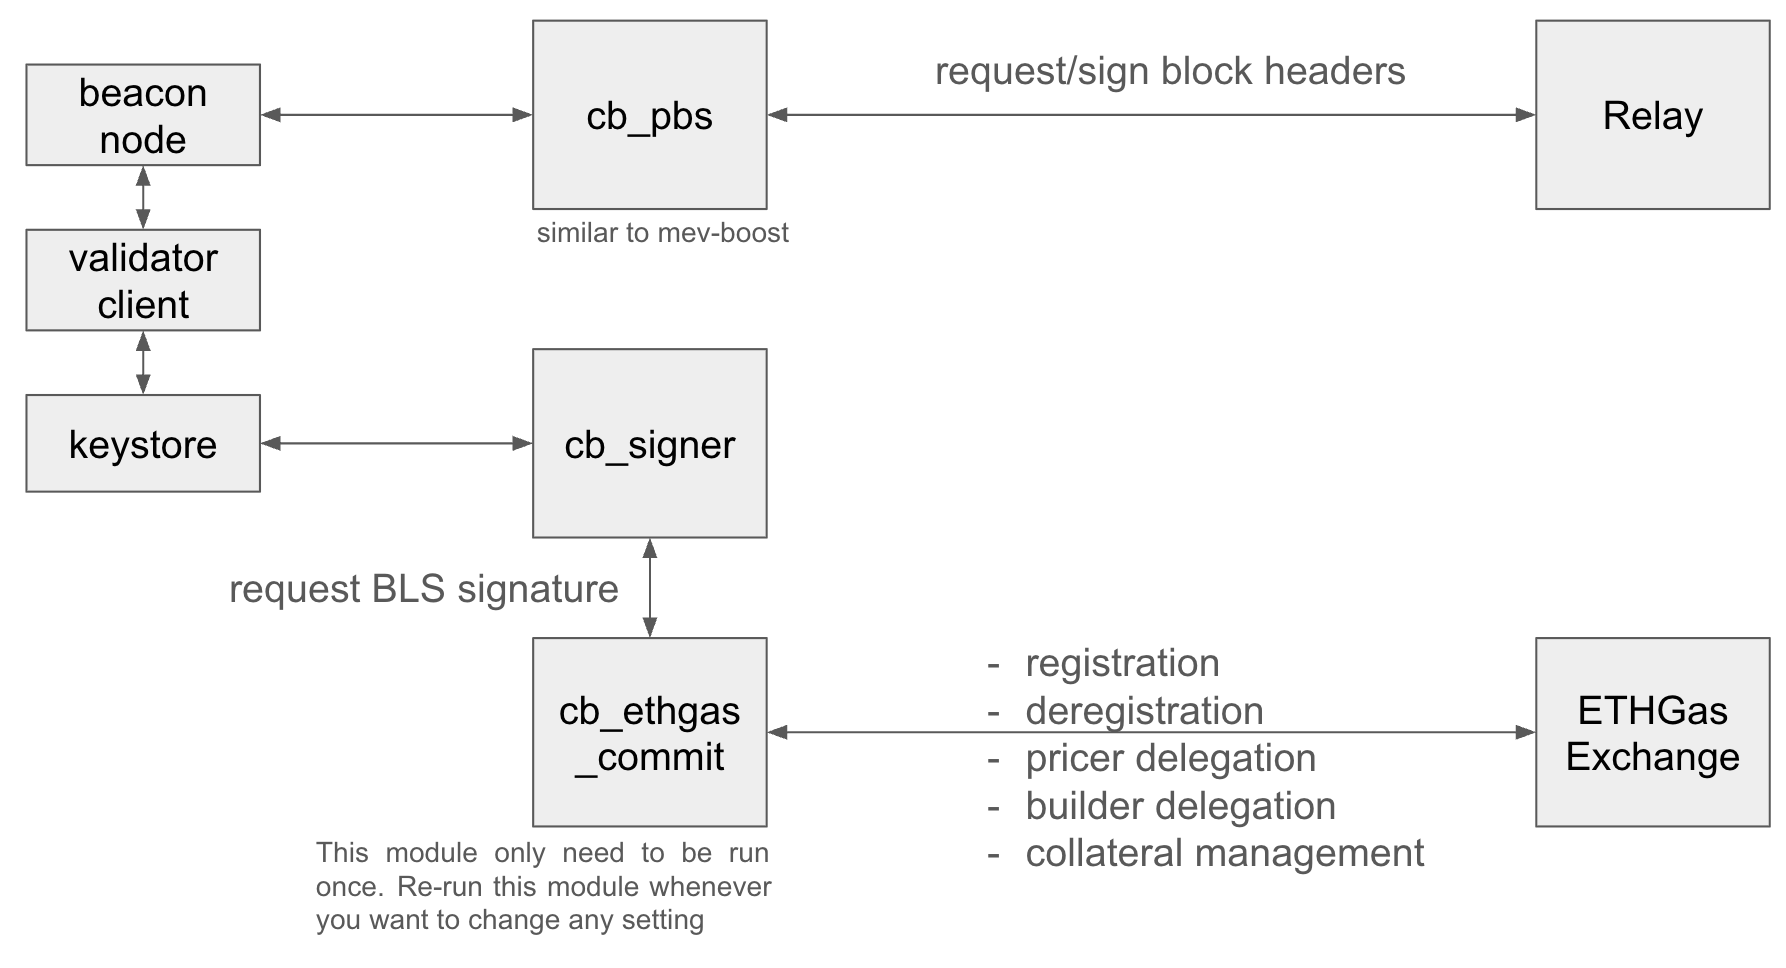
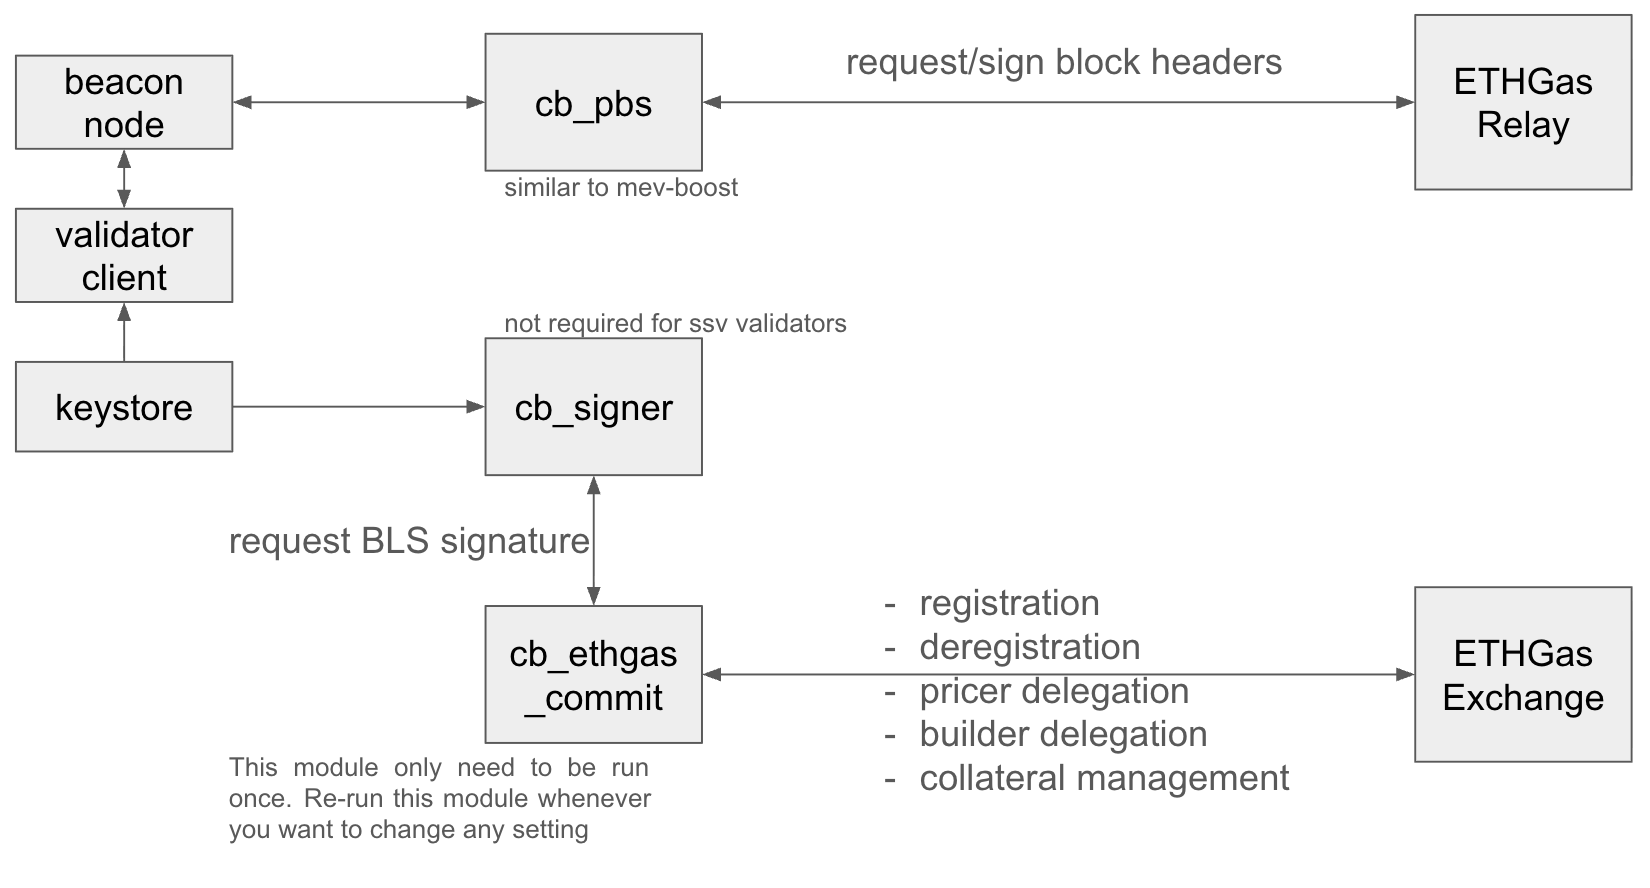
update README and architecture diagram

diff --git a/README.md b/README.md
@@ -39,7 +39,8 @@ First and foremost, we would like to give a big shout out to the Commit-Boost te
                 * run `export CB_MODULE_ID=ETHGAS_COMMIT && export CB_SIGNER_JWT=??? && export CB_SIGNER_URL="http://localhost:20000" && export CB_CONFIG="./config.toml" && cargo run --bin ethgas_commit`
         * specify validator public keys under `ssv_node_operator_owner_validator_pubkeys` or set it as `[]` to indicate the registration of all associated validator public keys obtained via SSV official API
         * if node operators within a cluster are associated with different owner addresses which are all owned by you, please put all signing keys of those owner addresses under the `ssv_node_operator_owner_signing_keys` array. This can ensure our exchange will open markets for your ssv validators even when the leading node operator rotates within the cluster.
-    * since your EOA address is required to be registered in ETHGas Exchange by generating a EIP712 signature first, then your validator public key can be binded to your EOA address by generating a BLS signature. You will need to either set `is_jwt_provided = false` and `eoa_signing_key` in `config.toml` or you can refer to our API doc [this part](https://developers.ethgas.com/?http#post-api-v1-user-login) and [this part](https://developers.ethgas.com/?http#post-api-v1-user-login-refresh) to get access & refresh jwt and set `is_jwt_provided = true` and `access_jwt` & `refresh_jwt` in `config.toml` 
+    * since your EOA address is required to be registered in ETHGas Exchange by generating a EIP712 signature first, then your validator public key can be binded to your EOA address by generating a BLS signature. You will need to either set `is_jwt_provided = false` and `eoa_signing_key` in `config.toml` or you can refer to our API doc [this part](https://developers.ethgas.com/?http#post-api-v1-user-login) and [this part](https://developers.ethgas.com/?http#post-api-v1-user-login-refresh) to get access & refresh jwt and set `is_jwt_provided = true` and `access_jwt` & `refresh_jwt` in `config.toml`
+        * if you are a node operator with validators from multiple pools, please use a different `eoa_signing_key` for validators from different pools.
         * Alternatively, you can set `EOA_SIGNING_KEY` or `ACCESS_JWT` & `REFRESH_JWT` as env variables in `.cb.env`
     * set `enable_pricer = true` if you want to delegate to our default pricer to help you to sell preconfs
     * set `enable_builder = true` and `builder_pubkey` if you want to delegate to a specific external builder to build the block. Regardless of whether the builder delegation is enabled or not, our fallback builder will always build a backup block which can fulfill all the preconf commitments
